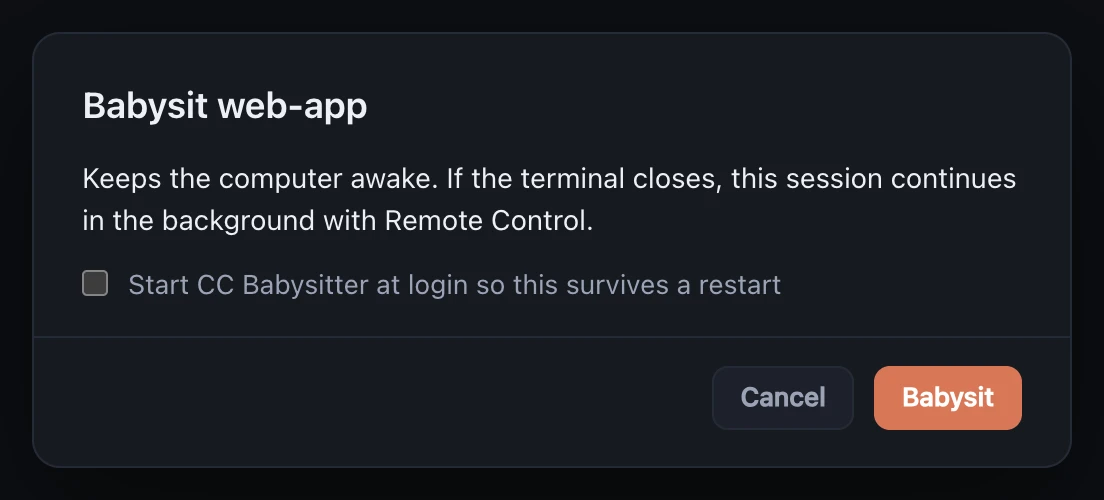
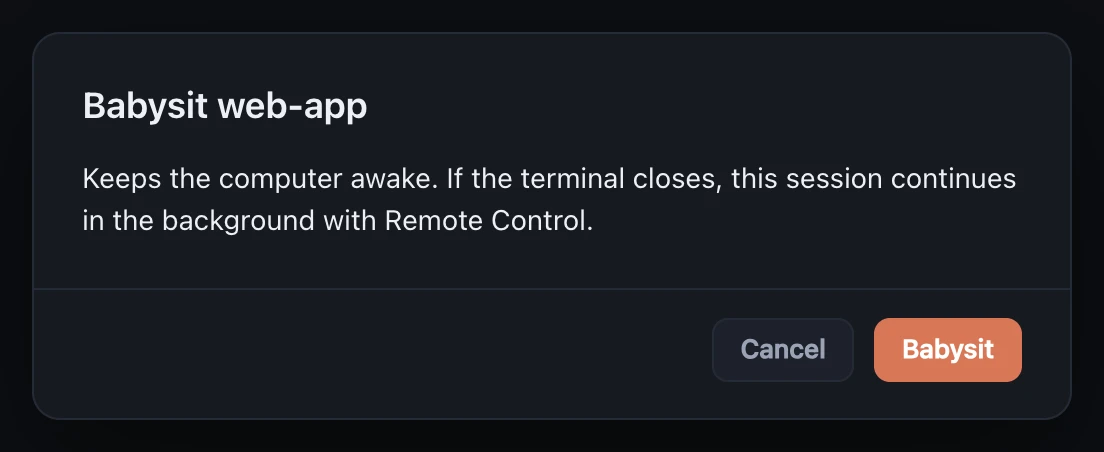
Leave the start at login offer out of the Babysit dialog shot
The demo starts with start at login off, so its Babysit dialog offers to
turn it on. A plain ccbabysitter has turned it on for the tutorial's
reader, who never sees that offer, so the shot leaves it out.

diff --git a/site/docs/first-session/index.html b/site/docs/first-session/index.html
@@ -105,8 +105,8 @@
     <h2 id="babysit">Babysit it</h2>
     <p>Press <strong>Babysit</strong> on the session's row. The dialog says what babysitting does. CC Babysitter keeps the computer awake, and if the terminal closes, the session carries on in the background with Remote Control.</p>
     <figure class="shot">
-      <img class="light-only" src="/docs/shots/babysit-dialog-light.webp" width="552" height="250" alt="The Babysit dialog for a session called web-app." loading="lazy">
-      <img class="dark-only" src="/docs/shots/babysit-dialog-dark.webp" width="552" height="250" alt="The Babysit dialog for a session called web-app." loading="lazy">
+      <img class="light-only" src="/docs/shots/babysit-dialog-light.webp" width="552" height="226" alt="The Babysit dialog for a session called web-app." loading="lazy">
+      <img class="dark-only" src="/docs/shots/babysit-dialog-dark.webp" width="552" height="226" alt="The Babysit dialog for a session called web-app." loading="lazy">
       <figcaption>The Babysit dialog, on the demo page.</figcaption>
     </figure>
     <p>Press <strong>Babysit</strong> in the dialog. The session moves to the Babysat list, and its card says <em>Watching in a terminal window</em>.</p>
